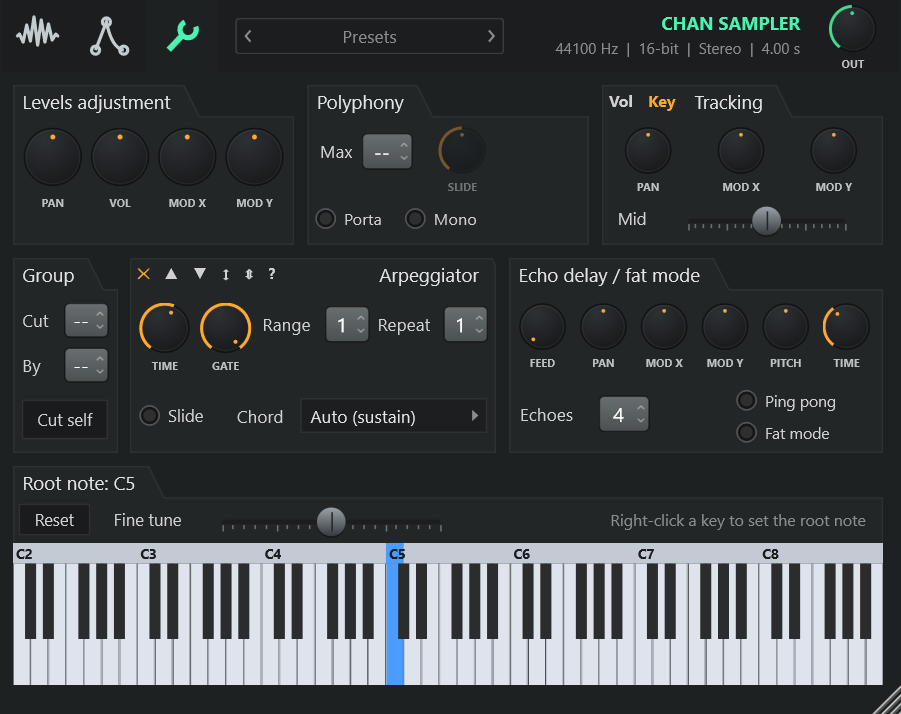
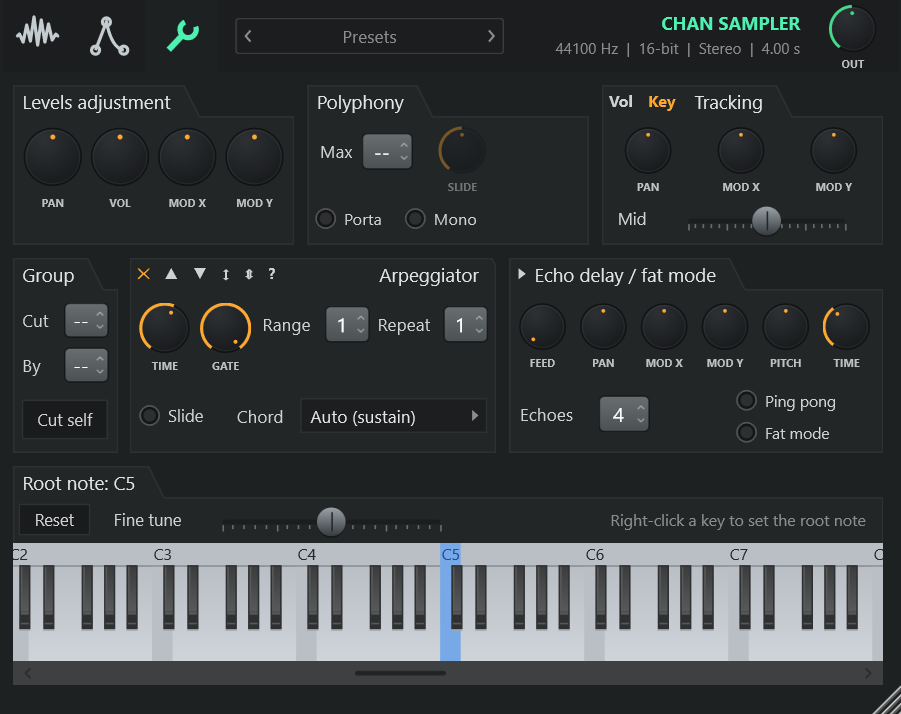
Screenshots regenerated (with the script that makes them)
docs/screenshots/make.py rebuilds them with ChanSamplerSnapshot; they now
show 1.1.0's keyboard and waveform colours.

Changed region(s): [[0.0, 0.7395, 0.9945, 0.986], [0.5594, 0.3697, 0.808, 0.4006]]

diff --git a/docs/screenshots/make.py b/docs/screenshots/make.py
@@ -1,0 +1,64 @@
+"""Regenerates the README's screenshots with ChanSamplerSnapshot (build it
+first): a synthetic drum loop on the Sample page (loop on), the Envelope page,
+the Misc page and the spectrum view, drawn at 1.6x.
+
+    python docs/screenshots/make.py"""
+import os, struct, subprocess, sys, tempfile
+import numpy as np
+
+HERE = os.path.dirname(os.path.abspath(__file__))
+ROOT = os.path.join(HERE, '..', '..')
+TOOL = os.path.join(ROOT, 'build', 'ChanSamplerSnapshot_artefacts', 'Release',
+                    'ChanSamplerSnapshot' + ('.exe' if sys.platform == 'win32' else ''))
+
+
+def drum_loop(path, sr=44100, bpm=120):
+    """Two bars of kick, snare and panned hats (16-bit stereo)."""
+    beat = 60 / bpm; n = int(8 * beat * sr); x = np.zeros((n, 2)); rng = np.random.default_rng(5)
+
+    def add(t0, sig, pan=0.0):
+        i = int(t0 * sr); m = min(len(sig), n - i)
+        x[i:i + m, 0] += sig[:m] * (1 - pan); x[i:i + m, 1] += sig[:m] * (1 + pan)
+
+    def kick():
+        t = np.arange(int(0.4 * sr)) / sr; f = 45 + 120 * np.exp(-t * 30)
+        return 0.9 * np.sin(2 * np.pi * np.cumsum(f) / sr) * np.exp(-t * 7)
+
+    def snare():
+        t = np.arange(int(0.25 * sr)) / sr; nz = rng.standard_normal(len(t))
+        return 0.45 * nz * np.exp(-t * 18) + 0.4 * np.sin(2 * np.pi * 190 * t) * np.exp(-t * 25)
+
+    def hat():
+        t = np.arange(int(0.06 * sr)) / sr; nz = np.diff(np.concatenate([[0], rng.standard_normal(len(t))]))
+        return 0.18 * nz * np.exp(-t * 70)
+
+    for b in range(8):
+        add(b * beat, kick() if b % 2 == 0 else snare())
+        for h in range(2):
+            add(b * beat + h * beat / 2, hat(), pan=0.3 if h else -0.3)
+    add(6.5 * beat, kick())
+    x /= np.abs(x).max() * 1.05
+    raw = (x * 32767).astype('<i2').tobytes()
+    fmt = struct.pack('<HHIIHH', 1, 2, sr, sr * 4, 4, 16)
+    body = b'WAVE' + b'fmt ' + struct.pack('<I', 16) + fmt + b'data' + struct.pack('<I', len(raw)) + raw
+    open(path, 'wb').write(b'RIFF' + struct.pack('<I', len(body)) + body)
+
+
+def main():
+    tmp = tempfile.mkdtemp()
+    loop = os.path.join(tmp, 'drumloop.wav'); drum_loop(loop)
+    looped = os.path.join(tmp, 'looped.txt'); open(looped, 'w').write('useLoop 1\nloopStart 0.5\nloopEnd 1\nstartOffset 0.02\n')
+    plain = os.path.join(tmp, 'plain.txt'); open(plain, 'w').write('')
+    env = dict(os.environ, SNAPSHOT_SCALE='1.6')
+    shots = [('sampler.png', looped, ['0'], {}),
+             ('envelope.png', plain, ['1', '0', '1'], {}),
+             ('misc.png', plain, ['2'], {}),
+             ('spectrum.png', plain, ['0'], {'SNAPSHOT_PROPS': 'viewSpectrum=1'})]
+    for name, params, args, extra in shots:
+        subprocess.run([TOOL, loop, os.path.join(HERE, name), params] + args, env=dict(env, **extra), check=True,
+                       stdout=subprocess.DEVNULL)
+        print('wrote', name)
+
+
+if __name__ == '__main__':
+    main()
